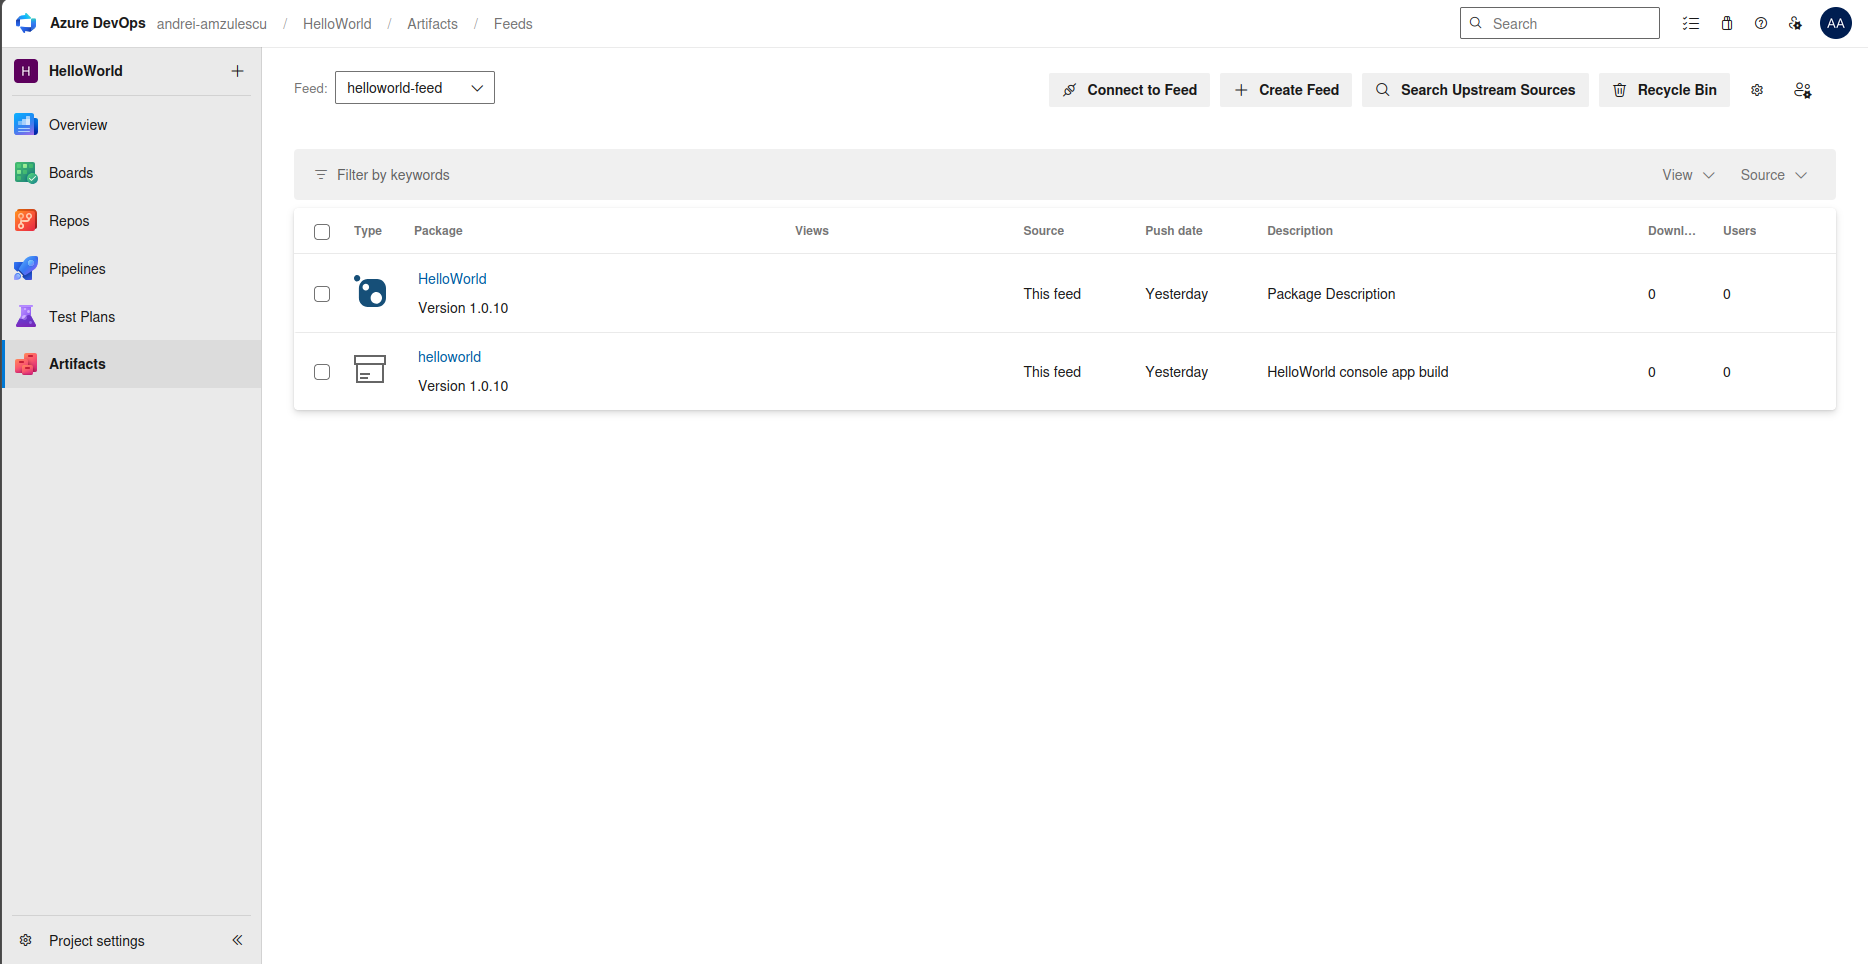
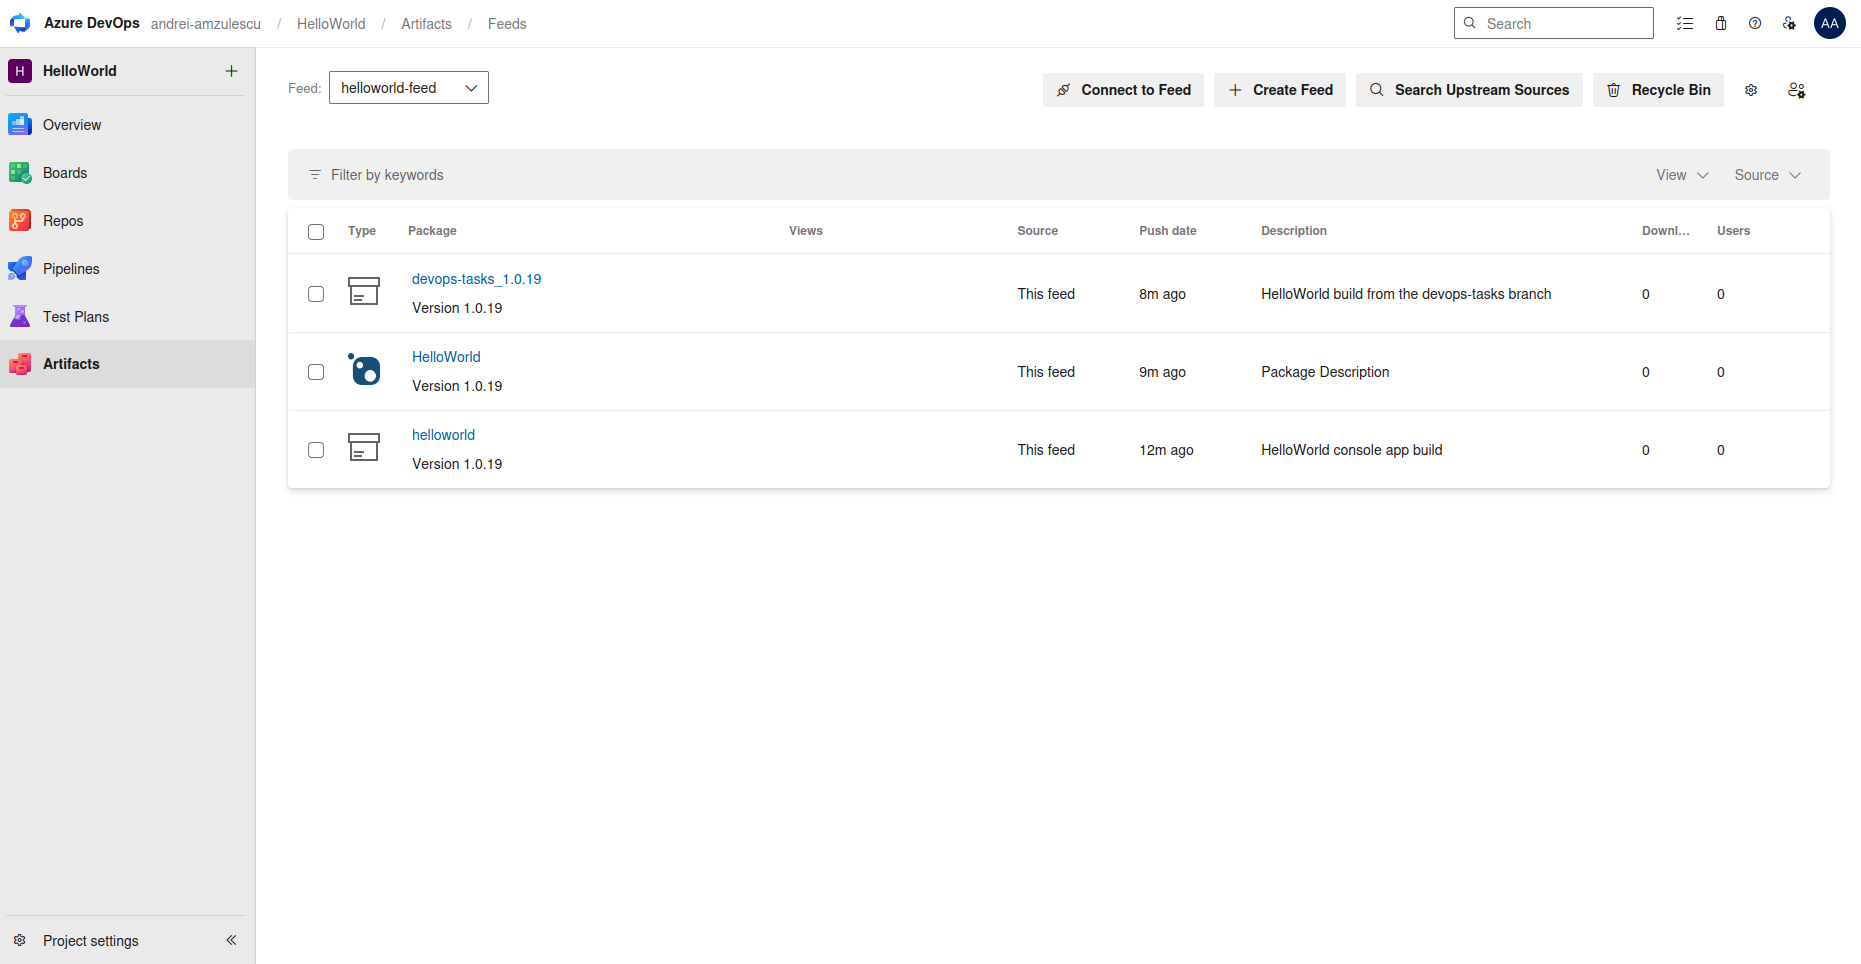
Fix: README and feed screenshot for the devops-tasks_<version> package

diff --git a/README.md b/README.md
@@ -18,7 +18,7 @@ On the `devops-tasks` branch it also:
 
 - runs a SonarQube scan
 - makes a NuGet package and uploads it to Azure Artifacts
-- tags the run as `devops-tasks_<version>`
+- tags the run and uploads the build to Azure Artifacts as `devops-tasks_<version>`
 - sends an email if the run passed or failed
 
 On other branches these steps are skipped. The pipeline is in `azure-pipelines.yml`.
